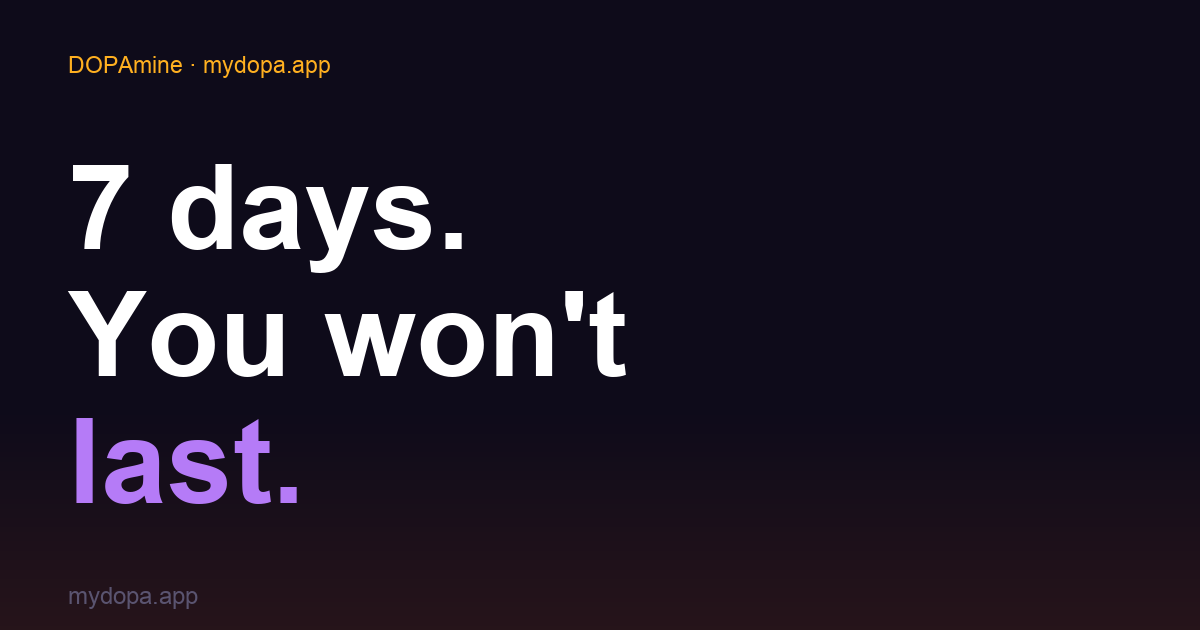
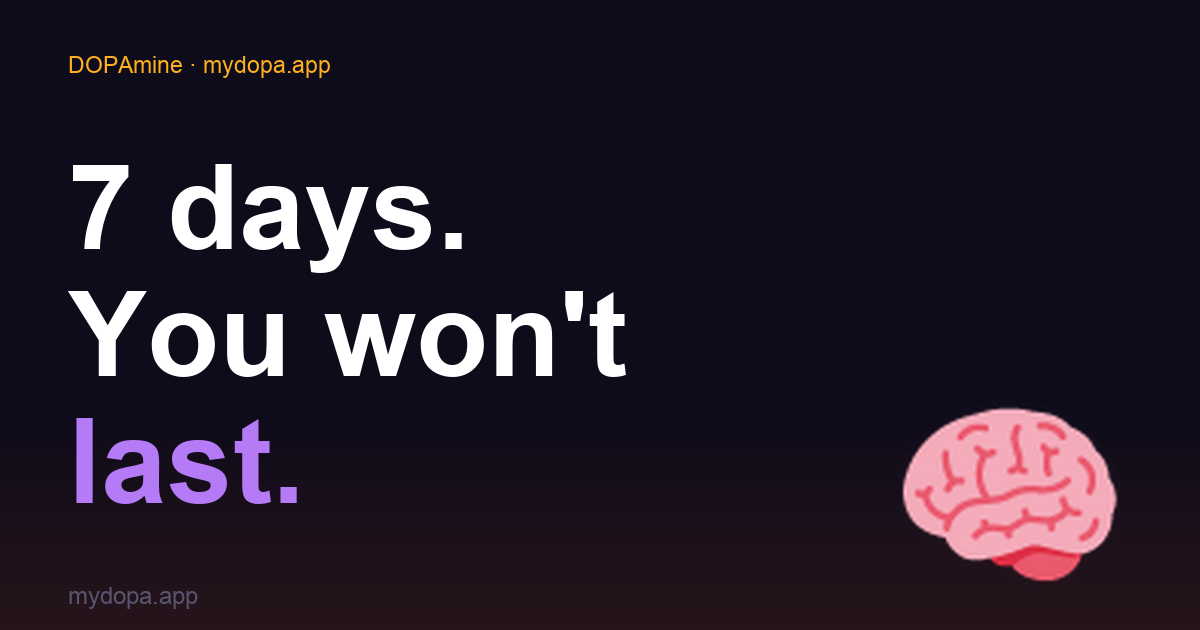
Fix brain emoji rendering with pilmoji

Changed region(s): [[0.74, 0.6333, 0.9558, 0.9349]]

diff --git a/generate_og_image.py b/generate_og_image.py
@@ -60,13 +60,16 @@ draw.text((68, 142 + GAP*2), "last.",     font=h1, fill=PURPLE)
 
 draw.text((68, H - 48), "mydopa.app", font=font(24, "regular"), fill=MUTED)
 
-ef = emoji_font(260)
-if ef:
-    bbox = draw.textbbox((0, 0), "🧠", font=ef)
-    ew, eh = bbox[2] - bbox[0], bbox[3] - bbox[1]
-    ex = W - ew - 80
-    ey = (H - eh) // 2 - 20
-    draw.text((ex, ey), "🧠", font=ef, embedded_color=True)
+from pilmoji import Pilmoji
+
+EMOJI_SIZE = 220
+ef = font(EMOJI_SIZE, "bold")  # size reference for positioning
+
+with Pilmoji(img) as pilmoji:
+    bbox = pilmoji.getsize("🧠", font=ImageFont.truetype("/System/Library/Fonts/Supplemental/Arial.ttf", EMOJI_SIZE))
+    ex = W - bbox[0] - 80
+    ey = (H - bbox[1]) // 2 - 20
+    pilmoji.text((ex, ey), "🧠", fill=(255, 255, 255), font=ImageFont.truetype("/System/Library/Fonts/Supplemental/Arial.ttf", EMOJI_SIZE))
 
 final = img.convert("RGB")
 os.makedirs(os.path.dirname(OUT_PATH), exist_ok=True)
